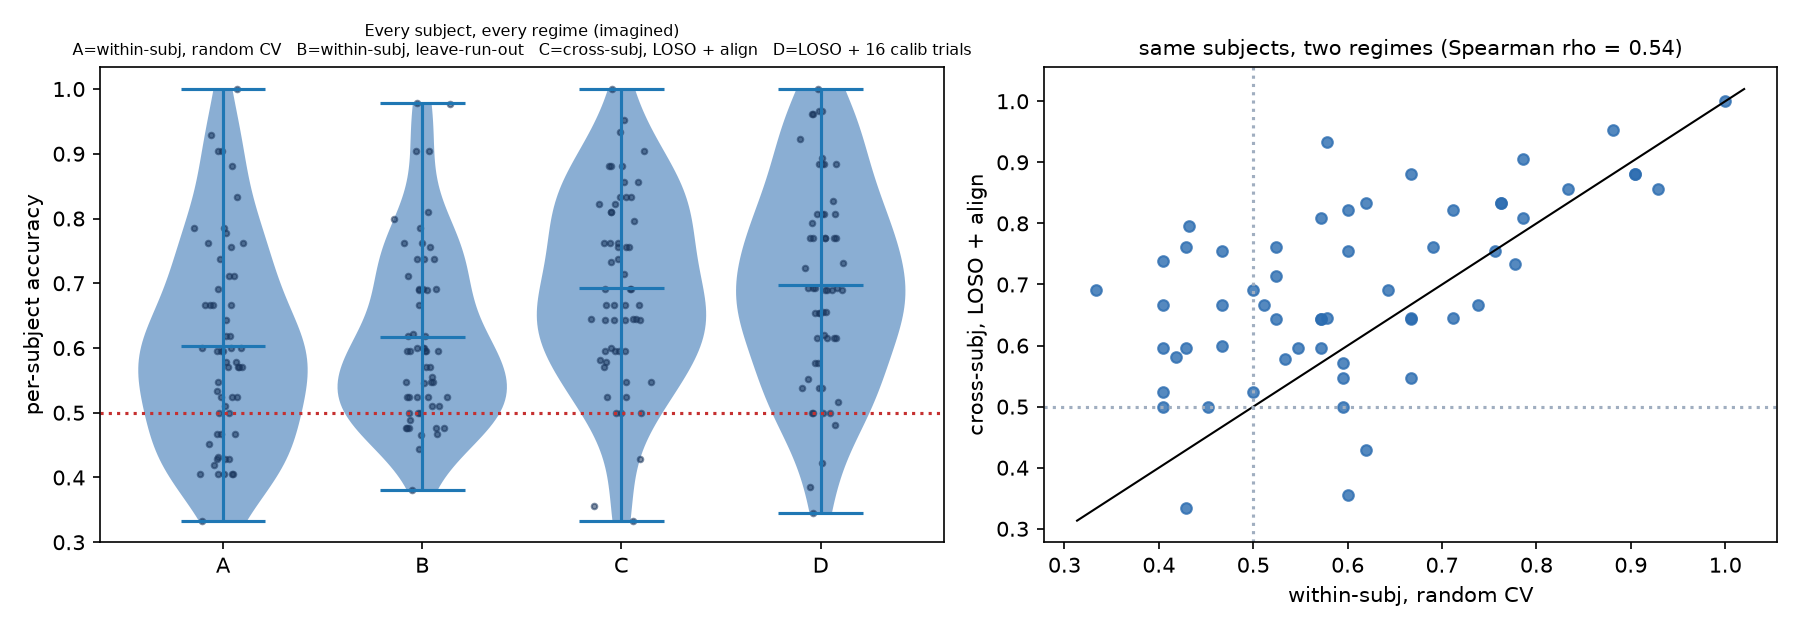
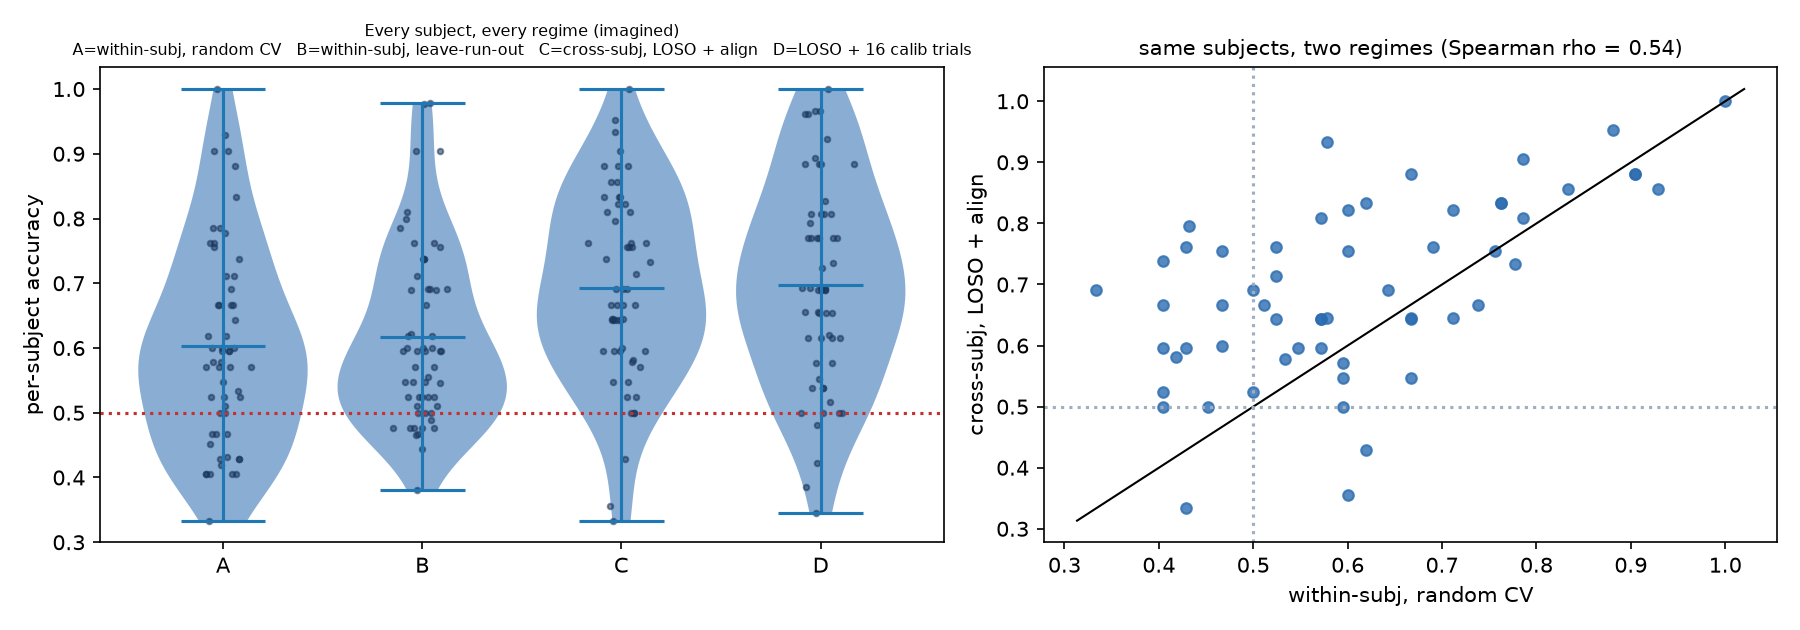
The repeat-versus-alternate split: the pre-cue signal is entirely the sequence

diff --git a/scripts/19_sequence_confound.py b/scripts/19_sequence_confound.py
@@ -14,9 +14,12 @@ alternates. Two consequences, both measured here:
      period predicts the upcoming label above chance without containing any
      information about it.
 
-The decisive test is to split trials by whether the label repeated. If the
-pre-cue window works only through the previous trial, it should be right on
-repeats and wrong on alternations, in mirror image.
+The decisive test is to split trials by whether the label repeated. The model
+is *trained* on pre-cue windows against current labels, and 77% of its training
+trials alternate, so it learns the rule "whatever the previous trial was,
+predict the other one". That rule is right on alternations and wrong on
+repeats, in mirror image about chance. Genuine advance information about the
+upcoming trial would instead be above chance on both.
 """
 import sys, pathlib
 sys.path.insert(0, str(pathlib.Path(__file__).resolve().parents[1] / "src"))
@@ -124,8 +127,9 @@ for name, m in [("PRE-CUE -> current, trials where label REPEATED", rep),
     lo, hi = E.binom_ci(k, n)
     rec(tag=name, acc=k / n, lo=lo, hi=hi, n=n)
 
-print("\nIf the pre-cue window only carries the previous trial, accuracy on the")
-print("current label should sit ABOVE chance on repeats and BELOW chance on")
-print("alternations. If it carried genuine advance information it would be")
-print("above chance on both.")
+print("\nThe model is trained on pre-cue windows against current labels, and 77%")
+print("of training trials alternate, so it learns 'predict the opposite of the")
+print("previous trial'. That rule is right on alternations and wrong on repeats,")
+print("mirrored about chance. Genuine advance information would be above chance")
+print("on both.")
 print("\nwrote", OUT)

diff --git a/README.md b/README.md
@@ -51,12 +51,24 @@ Roughly 2 GB, a couple of minutes.
 ## Predicting
 
 ```bash
-python predict.py ~/mne_data/MNE-eegbci-data/files/eegmmidb/1.0.0/S042/S042R04.edf
+python predict.py ~/mne_data/MNE-eegbci-data/files/eegmmidb/1.0.0/S034/S034R04.edf
+```
+
+```
+S034R04.edf: 15 trials  accuracy 1.000  (15/15)
+
+pooled accuracy over 1 file(s), 15 trials: 1.0000
 ```
 
 It takes any number of raw EDF paths, prints per-file accuracy when the file
-carries `T1`/`T2` annotations, and writes per-trial predictions with `--out`.
-Label 0 is the left fist, label 1 is the right fist.
+carries `T1`/`T2` annotations, and writes per-trial predictions with `--out`
+(file, trial index, onset in seconds, predicted label, probability of right
+fist, and the true label when one is available). Label 0 is the left fist,
+label 1 is the right fist.
+
+S034 is one of the twelve quarantined subjects and one of the easy ones; across
+all twelve the model scores 76.3%, and three of them are at chance. The
+per-subject spread is the point, not the headline average.
 
 To rebuild the model from scratch:
 
@@ -98,7 +110,8 @@ Full tables in [`RESULTS.md`](RESULTS.md); figures in `figures/`; the reasoning
 behind each number, including the attempts that failed, in
 [`ANALYSIS_LOG.md`](ANALYSIS_LOG.md).
 
-**Two numbers, and the second is the one I defend.**
+**The number I defend: 69.3%,** and a floor of 59.8% under the strictest
+reading.
 
 - **69.3%** on imagined left-fist versus right-fist for a person the model has
   never seen, over the conventional 0.5 to 3.5 s window. 58 evaluation subjects,
@@ -328,13 +341,30 @@ trials.
 
 **Placebo windows, and the surprise in them.** Two controls came back above
 chance. The 2 s of rest *before* the cue predicts the upcoming label at 55.6%,
-and the task window predicts the *previous* trial's label at 61.0%. Neither is
-what it looks like. Consecutive cues in a run differ 76.8% of the time, so the
-sequence strongly alternates; given 69.3% on the current label, 60.4% on the
-previous label follows arithmetically, and a lateralised trace of the previous
-trial in the rest period predicts the next label without containing any
-information about it. `ANALYSIS_LOG.md` section 10 works this through and
-`scripts/19_sequence_confound.py` runs the test that separates the two readings.
+and the task window predicts the *previous* trial's label at 61.0%. Read
+naively, the pipeline leaks and trials are not independent.
+
+Neither is true. Consecutive cues in a run carry different labels 76.8% of the
+time, lag-1 correlation −0.54: the sequence strongly alternates, and I had
+assumed it was random. Given 69.3% on the current label, 60.3% on the previous
+one follows arithmetically; observed 61.0%, so there is nothing left for genuine
+carry-over to explain. And the rest period sits 2 to 4 s after the previous
+movement, which is when lateralised beta rebound peaks, so it carries a trace of
+the previous trial and predicts the next label without containing any
+information about it.
+
+The test that separates the two readings splits trials by whether the label
+repeated:
+
+| test | accuracy |
+|---|---|
+| pre-cue rest → the **previous** trial's label | 63.7% |
+| pre-cue rest → the **current** label, on alternations | 60.7% |
+| pre-cue rest → the **current** label, on repeats | **40.3%** |
+
+Mirrored about chance, which is the signature of a model that has learned
+"predict the opposite of the previous trial" and nothing else. Genuine advance
+information would be above chance on both.
 
 ## How much of this is the person rather than the task
 

diff --git a/RESULTS.md b/RESULTS.md
@@ -160,6 +160,19 @@ Each family tuned on its own regularisation before comparison, then band and win
 | F LOSO + 24 calib | 70.1% | [67.3, 72.8] | 70.0% | 1095 |
 | F LOSO + 32 calib | 70.7% | [67.0, 74.2] | 70.1% | 631 |
 
+## 4c. The cue sequence is not random
+
+Consecutive trials in a run carry different labels 76.8% of the time (lag-1 correlation -0.54). These rows separate what that structure explains from what it does not.
+
+| test | accuracy | 95% CI | trials |
+|---|---|---|---|
+| task window -> CURRENT label | 69.3% | [67.4, 71.1] | 2487 |
+| task window -> PREVIOUS label (looks like carry-over) | 61.0% | [59.0, 63.0] | 2313 |
+| PRE-CUE rest -> CURRENT label | 55.6% | [53.6, 57.6] | 2487 |
+| PRE-CUE rest -> PREVIOUS label | 63.7% | [61.7, 65.7] | 2313 |
+| PRE-CUE -> current, trials where label REPEATED | 40.3% | [36.1, 44.6] | 541 |
+| PRE-CUE -> current, trials where label ALTERNATED | 60.7% | [58.3, 62.9] | 1772 |
+
 ## 4b. What the easy splits would have told me
 
 | split | accuracy | 95% CI | trials |
@@ -234,12 +247,22 @@ Each family tuned on its own regularisation before comparison, then band and win
 |---|---|---|
 | keep everything [3975 epochs] | 69.3% | [67.4, 71.1] |
 | drop worst 1% of epochs [3935 epochs] | 69.2% | [67.3, 71.0] |
+| drop worst 5% of epochs [3776 epochs] | 69.1% | [67.2, 71.0] |
+| drop worst 20% of epochs [3180 epochs] | 68.7% | [66.7, 70.7] |
 
-## 6. EEGNet
+### early-window
 
-| configuration | test acc | 95% CI | train acc | per-subject mean | s |
-|---|---|---|---|---|---|
-| EEGNet cross-subject (all train subj) | 50.7% | [48.7, 52.7] | 53.5% | 50.7% | 1821 |
+| control | accuracy | 95% CI |
+|---|---|---|
+| 0.0-2.0 s, all 64 [64 ch] | 71.0% | [69.1, 72.7] |
+| 0.0-2.0 s, sensorimotor [15 ch] | 67.6% | [65.8, 69.5] |
+| 0.0-2.0 s, parieto-occipital [17 ch] | 59.6% | [57.7, 61.6] |
+| 0.5-3.5 s, all 64 [64 ch] | 69.3% | [67.4, 71.1] |
+| 0.5-3.5 s, sensorimotor [15 ch] | 66.1% | [64.2, 68.0] |
+| 0.5-3.5 s, parieto-occipital [17 ch] | 59.8% | [57.8, 61.7] |
+| 2.0-4.0 s, all 64 [64 ch] | 62.0% | [60.1, 63.9] |
+| 2.0-4.0 s, sensorimotor [15 ch] | 60.6% | [58.6, 62.5] |
+| 2.0-4.0 s, parieto-occipital [17 ch] | 55.6% | [53.6, 57.6] |
 
 ## 7. Predicting who is decodable from a resting recording
 

diff --git a/ANALYSIS_LOG.md b/ANALYSIS_LOG.md
@@ -300,10 +300,23 @@ current one; the pre-cue window manages 55.6%, which is a weak trace, not a
 leak of future information.
 
 `scripts/19_sequence_confound.py` runs the decisive test: split trials by
-whether the label repeated. If the pre-cue window works only through the
-previous trial, its accuracy on the current label must sit above chance on
-repeats and *below* chance on alternations, in mirror image. Genuine advance
-information would be above chance on both.
+whether the label repeated. The model is *trained* on pre-cue windows against
+current labels, and 77% of its training trials alternate, so if the window only
+carries the previous trial the model will learn the rule "predict the opposite
+of whatever the previous trial was". That rule is right on alternations and
+wrong on repeats, mirrored about chance. Genuine advance information about the
+upcoming trial would instead be above chance on both.
+
+| test | accuracy |
+|---|---|
+| pre-cue rest → the **previous** trial's label | 63.7% |
+| pre-cue rest → the **current** label, trials where the label alternated | 60.7% |
+| pre-cue rest → the **current** label, trials where the label repeated | **40.3%** |
+
+Exactly the mirror image, and the two halves reconstruct the pooled figure:
+0.768 × 0.607 + 0.232 × 0.403 = 0.559, against 0.556 observed. The pre-cue
+window carries a clear trace of the *previous* trial and no information at all
+about the current one. The 55.6% is entirely the stimulus sequence.
 
 What I take from this. The pre-cue placebo is the right control to run, and it
 would have been easy to report "55.6%, above chance, therefore my pipeline
